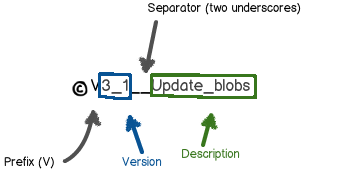
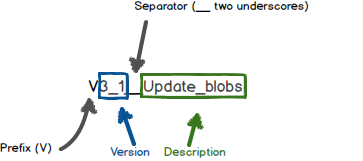
Added sqlMigrationSeparator docs

Changed region(s): [[0.0, 0.0, 0.8485, 0.9627], [0.303, 0.6522, 0.6667, 0.9938]]

diff --git a/documentation/migration/sql.html b/documentation/migration/sql.html
@@ -15,37 +15,38 @@ subtitle: SQL Migrations
 
     <h2>Location and discovery</h2>
 
-    <p>Sql migrations reside on the classpath in one or more directories referenced by the <strong><a
+    <p>Sql migrations reside on the <strong>classpath</strong> or on the <strong>file system</strong> in one or more directories referenced by the <strong><a
             href="/documentation/api/javadoc/com/googlecode/flyway/core/Flyway.html#setLocations(java.lang.String...)"
-            >locations</a></strong> property.<br/></p>
+            >locations</a></strong> property.<br/>
+        Unprefixed locations or locations with the <code>classpath:</code> prefix target the classpath.<br/>
+        Locations with the <code>filesystem:</code> prefix target the file system.
+    </p>
 
     <p><img src="/assets/balsamiq/SqlMigrationBaseDir.png"/></p>
 
-    <p>New sql migrations are <strong>discovered automatically</strong> through classpath scanning at runtime. This
-        scanning is recursive. All migrations in directories below the specified ones are also picked up. </p>
+    <p>New sql migrations are <strong>discovered automatically</strong> through classpath and file system scanning at runtime.<br/>
+        This scanning is recursive. All migrations in directories below the specified ones are also picked up.</p>
 
     <h2>Naming</h2>
 
-    <p>In order to be picked by the classpath scanner, the sql migrations must follow a naming pattern: </p>
+    <p>In order to be picked by the classpath scanner, the sql migrations must follow a naming pattern:</p>
 
     <p><img src="/assets/balsamiq/SqlMigrationNaming.png"/></p>
 
-    <p>The file name consists of:
+    <p>The file name consists of:</p>
     <ul>
-        <li><strong>prefix</strong> (Configurable, default: V)</li>
-        <li><strong>version</strong> (Dots or underscores separate the parts, you can use as many parts as you like)
-        </li>
-        <li><strong>separator</strong> (Two underscores)</li>
-        <li><strong>description</strong> (Underscores or spaces separate the words)</li>
-        <li><strong>suffix</strong> (Configurable, default: .sql)</li>
+        <li><strong>prefix</strong>: Configurable, default: V</li>
+        <li><strong>version</strong>: Dots or underscores separate the parts, you can use as many parts as you like</li>
+        <li><strong>separator</strong>: Configurable, default: __ (two underscores)</li>
+        <li><strong>description</strong>: Underscores or spaces separate the words</li>
+        <li><strong>suffix</strong>: Configurable, default: .sql</li>
     </ul>
-    </p>
 
     <h2 id="syntax">Sql Script syntax</h2>
     <ul>
         <li>Single- or multi-line statements</li>
         <li>Flexible placeholder replacement</li>
-        <li>Single- (--) or Multi-line (/<tt>*</tt> <tt>*</tt>/) comments spanning complete lines</li>
+        <li>Single- (--) or Multi-line (/* */) comments spanning complete lines</li>
         <li>Database-specific SQL syntax extensions (PL/SQL, T-SQL, ...)</li>
     </ul>
 

diff --git a/documentation/ant/validate.html b/documentation/ant/validate.html
@@ -90,6 +90,12 @@ subtitle: 'Ant Task: Validate'
             <td>The file name prefix for Sql migrations</td>
         </tr>
         <tr>
+            <td>sqlMigrationSeparator</td>
+            <td>NO</td>
+            <td>__</td>
+            <td>The file name separator for Sql migrations</td>
+        </tr>
+        <tr>
             <td>sqlMigrationSuffix</td>
             <td>NO</td>
             <td>.sql</td>
@@ -184,6 +190,7 @@ subtitle: 'Ant Task: Validate'
 &lt;property name=&quot;flyway.table&quot; value=&quot;schema_history&quot;/&gt;
 &lt;property name=&quot;flyway.locations&quot; value=&quot;classpath:com.mycompany.project.migration,database/migrations,filesystem:/sql-migrations&quot;/&gt;
 &lt;property name=&quot;flyway.sqlMigrationPrefix&quot; value=&quot;Migration-&quot;/&gt;
+&lt;property name=&quot;flyway.sqlMigrationSeparator&quot; value=&quot;__&quot;/&gt;
 &lt;property name=&quot;flyway.sqlMigrationSuffix&quot; value=&quot;-OK.sql&quot;/&gt;
 &lt;property name=&quot;flyway.encoding&quot; value=&quot;ISO-8859-1&quot;/&gt;
 &lt;property name=&quot;flyway.placeholders.aplaceholder&quot; value=&quot;value&quot;/&gt;

diff --git a/documentation/commandline/info.html b/documentation/commandline/info.html
@@ -80,7 +80,7 @@ subtitle: 'Command Line : Info'
         <tr>
             <td>jarDir</td>
             <td>NO</td>
-            <td><nobr><i>&lt;install-dir&gt;</i>/jars</td>
+            <td><nobr><i>&lt;install-dir&gt;</i>/jars</nobr></td>
             <td>The directory containing the JDBC driver and the Java-based migrations</td>
         </tr>
         <tr>
@@ -88,6 +88,12 @@ subtitle: 'Command Line : Info'
             <td>NO</td>
             <td>V</td>
             <td>The file name prefix for Sql migrations</td>
+        </tr>
+        <tr>
+            <td>sqlMigrationSeparator</td>
+            <td>NO</td>
+            <td>__</td>
+            <td>The file name separator for Sql migrations</td>
         </tr>
         <tr>
             <td>sqlMigrationSuffix</td>
@@ -157,6 +163,7 @@ flyway.schemas=schema1,schema2,schema3
 flyway.table=schema_history
 flyway.locations=classpath:com.mycompany.migration,database/migrations,filesystem:/sql-migrations
 flyway.sqlMigrationPrefix=Migration-
+flyway.sqlMigrationSeparator=__
 flyway.sqlMigrationSuffix=-OK.sql
 flyway.encoding=ISO-8859-1
 flyway.placeholders.aplaceholder=value

diff --git a/documentation/ant/info.html b/documentation/ant/info.html
@@ -84,6 +84,12 @@ subtitle: 'Ant Task: Info'
             <td>The file name prefix for Sql migrations</td>
         </tr>
         <tr>
+            <td>sqlMigrationSeparator</td>
+            <td>NO</td>
+            <td>__</td>
+            <td>The file name separator for Sql migrations</td>
+        </tr>
+        <tr>
             <td>sqlMigrationSuffix</td>
             <td>NO</td>
             <td>.sql</td>
@@ -167,6 +173,7 @@ subtitle: 'Ant Task: Info'
 &lt;property name=&quot;flyway.table&quot; value=&quot;schema_history&quot;/&gt;
 &lt;property name=&quot;flyway.locations&quot; value=&quot;classpath:com.mycompany.project.migration,database/migrations,filesystem:/sql-migrations&quot;/&gt;
 &lt;property name=&quot;flyway.sqlMigrationPrefix&quot; value=&quot;Migration-&quot;/&gt;
+&lt;property name=&quot;flyway.sqlMigrationSeparator&quot; value=&quot;__&quot;/&gt;
 &lt;property name=&quot;flyway.sqlMigrationSuffix&quot; value=&quot;-OK.sql&quot;/&gt;
 &lt;property name=&quot;flyway.encoding&quot; value=&quot;ISO-8859-1&quot;/&gt;
 &lt;property name=&quot;flyway.placeholders.aplaceholder&quot; value=&quot;value&quot;/&gt;

diff --git a/documentation/ant/migrate.html b/documentation/ant/migrate.html
@@ -96,6 +96,12 @@ subtitle: 'Ant Task: Migrate'
         <td>The file name prefix for Sql migrations</td>
     </tr>
     <tr>
+        <td>sqlMigrationSeparator</td>
+        <td>NO</td>
+        <td>__</td>
+        <td>The file name separator for Sql migrations</td>
+    </tr>
+    <tr>
         <td>sqlMigrationSuffix</td>
         <td>NO</td>
         <td>.sql</td>
@@ -226,6 +232,7 @@ subtitle: 'Ant Task: Migrate'
 &lt;property name=&quot;flyway.table&quot; value=&quot;schema_history&quot;/&gt;
 &lt;property name=&quot;flyway.locations&quot; value=&quot;classpath:com.mycompany.project.migration,database/migrations,filesystem:/sql-migrations&quot;/&gt;
 &lt;property name=&quot;flyway.sqlMigrationPrefix&quot; value=&quot;Migration-&quot;/&gt;
+&lt;property name=&quot;flyway.sqlMigrationSeparator&quot; value=&quot;__&quot;/&gt;
 &lt;property name=&quot;flyway.sqlMigrationSuffix&quot; value=&quot;-OK.sql&quot;/&gt;
 &lt;property name=&quot;flyway.encoding&quot; value=&quot;ISO-8859-1&quot;/&gt;
 &lt;property name=&quot;flyway.placeholders.aplaceholder&quot; value=&quot;value&quot;/&gt;

diff --git a/documentation/maven/validate.html b/documentation/maven/validate.html
@@ -99,6 +99,12 @@ subtitle: 'mvn flyway:validate'
             <td>The file name prefix for Sql migrations</td>
         </tr>
         <tr>
+            <td>sqlMigrationSeparator</td>
+            <td>NO</td>
+            <td>__</td>
+            <td>The file name separator for Sql migrations</td>
+        </tr>
+        <tr>
             <td>sqlMigrationSuffix</td>
             <td>NO</td>
             <td>.sql</td>
@@ -200,6 +206,7 @@ subtitle: 'mvn flyway:validate'
         &lt;location&gt;filesystem:/sql-migrations&lt;/location&gt;
     &lt;/locations&gt;
     &lt;sqlMigrationPrefix&gt;Migration-&lt;/sqlMigrationPrefix&gt;
+    &lt;sqlMigrationSeparator&gt;__&lt;/sqlMigrationSeparator&gt;
     &lt;sqlMigrationSuffix&gt;-OK.sql&lt;/sqlMigrationSuffix&gt;
     &lt;encoding&gt;ISO-8859-1&lt;/encoding&gt;
     &lt;placeholders&gt;

diff --git a/documentation/maven/info.html b/documentation/maven/info.html
@@ -92,6 +92,12 @@ subtitle: 'mvn flyway:info'
             <td>The file name prefix for Sql migrations</td>
         </tr>
         <tr>
+            <td>sqlMigrationSeparator</td>
+            <td>NO</td>
+            <td>__</td>
+            <td>The file name separator for Sql migrations</td>
+        </tr>
+        <tr>
             <td>sqlMigrationSuffix</td>
             <td>NO</td>
             <td>.sql</td>
@@ -181,6 +187,7 @@ subtitle: 'mvn flyway:info'
         &lt;location&gt;filesystem:/sql-migrations&lt;/location&gt;
     &lt;/locations&gt;
     &lt;sqlMigrationPrefix&gt;Migration-&lt;/sqlMigrationPrefix&gt;
+    &lt;sqlMigrationSeparator&gt;__&lt;/sqlMigrationSeparator&gt;
     &lt;sqlMigrationSuffix&gt;-OK.sql&lt;/sqlMigrationSuffix&gt;
     &lt;encoding&gt;ISO-8859-1&lt;/encoding&gt;
     &lt;placeholders&gt;

diff --git a/documentation/maven/migrate.html b/documentation/maven/migrate.html
@@ -108,6 +108,12 @@ subtitle: 'mvn flyway:migrate'
         <td>The file name prefix for Sql migrations</td>
     </tr>
     <tr>
+        <td>sqlMigrationSeparator</td>
+        <td>NO</td>
+        <td>__</td>
+        <td>The file name separator for Sql migrations</td>
+    </tr>
+    <tr>
         <td>sqlMigrationSuffix</td>
         <td>NO</td>
         <td>.sql</td>
@@ -248,6 +254,7 @@ subtitle: 'mvn flyway:migrate'
         &lt;location&gt;filesystem:/sql-migrations&lt;/location&gt;
     &lt;/locations&gt;
     &lt;sqlMigrationPrefix&gt;Migration-&lt;/sqlMigrationPrefix&gt;
+    &lt;sqlMigrationSeparator&gt;__&lt;/sqlMigrationSeparator&gt;
     &lt;sqlMigrationSuffix&gt;-OK.sql&lt;/sqlMigrationSuffix&gt;
     &lt;encoding&gt;ISO-8859-1&lt;/encoding&gt;
     &lt;placeholders&gt;

diff --git a/documentation/commandline/validate.html b/documentation/commandline/validate.html
@@ -91,6 +91,12 @@ subtitle: 'Command Line : Validate'
             <td>The file name prefix for Sql migrations</td>
         </tr>
         <tr>
+            <td>sqlMigrationSeparator</td>
+            <td>NO</td>
+            <td>__</td>
+            <td>The file name separator for Sql migrations</td>
+        </tr>
+        <tr>
             <td>sqlMigrationSuffix</td>
             <td>NO</td>
             <td>.sql</td>
@@ -169,6 +175,7 @@ flyway.schemas=schema1,schema2,schema3
 flyway.table=schema_history
 flyway.locations=classpath:com.mycompany.migration,database/migrations,filesystem:/sql-migrations
 flyway.sqlMigrationPrefix=Migration-
+flyway.sqlMigrationSeparator=__
 flyway.sqlMigrationSuffix=-OK.sql
 flyway.encoding=ISO-8859-1
 flyway.placeholders.aplaceholder=value

diff --git a/documentation/commandline/migrate.html b/documentation/commandline/migrate.html
@@ -92,6 +92,12 @@ subtitle: 'Command Line : Migrate'
             <td>The file name prefix for Sql migrations</td>
         </tr>
         <tr>
+            <td>sqlMigrationSeparator</td>
+            <td>NO</td>
+            <td>__</td>
+            <td>The file name separator for Sql migrations</td>
+        </tr>
+        <tr>
             <td>sqlMigrationSuffix</td>
             <td>NO</td>
             <td>.sql</td>
@@ -208,6 +214,7 @@ flyway.schemas=schema1,schema2,schema3
 flyway.table=schema_history
 flyway.locations=classpath:com.mycompany.migration,database/migrations,filesystem:/sql-migrations
 flyway.sqlMigrationPrefix=Migration-
+flyway.sqlMigrationSeparator=__
 flyway.sqlMigrationSuffix=-OK.sql
 flyway.encoding=ISO-8859-1
 flyway.placeholders.aplaceholder=value

diff --git a/documentation/gradle/validate.html b/documentation/gradle/validate.html
@@ -86,6 +86,12 @@ subtitle: 'gradle flywayValidate'
             <td>The file name prefix for Sql migrations</td>
         </tr>
         <tr>
+            <td>sqlMigrationSeparator</td>
+            <td>NO</td>
+            <td>__</td>
+            <td>The file name separator for Sql migrations</td>
+        </tr>
+        <tr>
             <td>sqlMigrationSuffix</td>
             <td>NO</td>
             <td>.sql</td>
@@ -165,6 +171,7 @@ subtitle: 'gradle flywayValidate'
     table = 'schema_history'
     locations = ['classpath:migrations1', 'migrations2', 'filesystem:/sql-migrations']
     sqlMigrationPrefix = 'Migration-'
+    sqlMigrationSeparator = '__'
     sqlMigrationSuffix = '-OK.sql'
     encoding = 'ISO-8859-1'
     placeholders = [

diff --git a/documentation/gradle/info.html b/documentation/gradle/info.html
@@ -83,6 +83,12 @@ subtitle: 'gradle flywayInfo'
             <td>The file name prefix for Sql migrations</td>
         </tr>
         <tr>
+            <td>sqlMigrationSeparator</td>
+            <td>NO</td>
+            <td>__</td>
+            <td>The file name separator for Sql migrations</td>
+        </tr>
+        <tr>
             <td>sqlMigrationSuffix</td>
             <td>NO</td>
             <td>.sql</td>
@@ -150,6 +156,7 @@ subtitle: 'gradle flywayInfo'
     table = 'schema_history'
     locations = ['classpath:migrations1', 'migrations2', 'filesystem:/sql-migrations']
     sqlMigrationPrefix = 'Migration-'
+    sqlMigrationSeparator = '__'
     sqlMigrationSuffix = '-OK.sql'
     encoding = 'ISO-8859-1'
     placeholders = [
